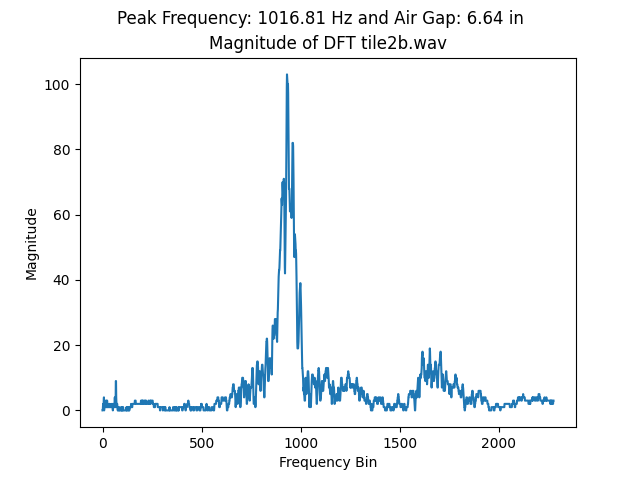
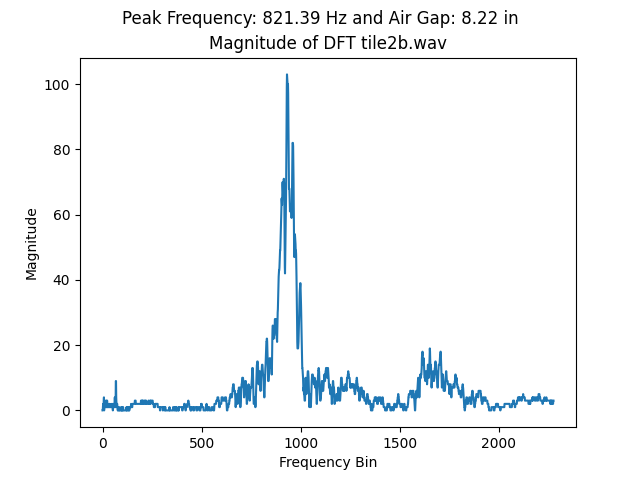
LAB 7 Finally Done

Changed region(s): [[0.1875, 0.0, 0.8125, 0.0625]]

diff --git a/Lab 7 - Acoustic Analysis/source/cpe367_AcousticAnalysisPart3.py b/Lab 7 - Acoustic Analysis/source/cpe367_AcousticAnalysisPart3.py
@@ -10,30 +10,13 @@ from cpe367_wav import cpe367_wav
 from my_fifo import my_fifo
 from tqdm import tqdm
 
-def process_wav(fpath_wav_in, fpath_wav_out):
+def process_wav(fpath_wav_in):
     wav_in = cpe367_wav('wav_in', fpath_wav_in)
-    wav_out = cpe367_wav('wav_out', fpath_wav_out)
 
     ostat = wav_in.open_wav_in()
     if ostat == False:
         print('Can\'t open wav file for reading')
         return False
-
-    num_channels = 2
-    sample_width_8_16_bits = 16
-    sample_rate_hz = 16000
-    wav_out.set_wav_out_configuration(num_channels, sample_width_8_16_bits, sample_rate_hz)
-
-    ostat = wav_out.open_wav_out()
-    if ostat == False:
-        print('Can\'t open wav file for writing')
-        return False
-
-    M = 1000
-    fifox = my_fifo(M)
-
-    bk_list = [1]
-
 
     xin = 0
     n = 0
@@ -63,61 +46,56 @@ def process_wav(fpath_wav_in, fpath_wav_out):
         dftList.append(np.sqrt(imag**2 + real**2) / (len(sampleValues))//2)
         # print(f"Sample {sample}: {dftList[sample]} and {sampleValues[sample]}")
         n+=1
-        
-    # Output DFT to the WAV file
-    for sample in dftList:
-        yout_left = int(round(sample))
-        yout_right = int(round(sample))
-
-        # output current sample
-        ostat = wav_out.write_wav_stereo(yout_left, yout_right)
-        if ostat == False:
-            break
     
     # Calculate frequency bins for the DFT
     N = len(sampleValues)
-    sample_rate = 8000  # or 16000 based on your configuration
+    sample_rate = 8000
     frequencies = np.arange(N) * sample_rate / N
+    
+    # Create a numpy array of the DFT (helps with calculations)
     dfts = np.array(dftList)
+    
+    # Get the Raw Max frequency
     max_frequency = np.argmax(dfts)
+    maxMagnitude = dftList[max_frequency]
+    
+    # Debugging print statements
     print(f"The max frequency is: {frequencies[max_frequency]} Hz")
-    print(f"The max magnitude is: {dftList[max_frequency]}")
+    print(f"The max magnitude is: {maxMagnitude}")
+
+    # Print length of frequency array and dfT array
+    print(f"Length of frequency array: {len(frequencies[max_frequency//2:N//4])}")
+    print(f"Length of DFT array: {len(dftList[max_frequency//2:int(max_frequency * 3)])}")
+
+    minimumIndex = max_frequency // 2
+    maximumIndex = int(max_frequency * 3)
 
 
-    # Compute the magnitudes of the DFT (you only need half of them due to symmetry)
-    magnitudes = np.abs(dftList[max_frequency//2:N//4])
+    # Compute the magnitudes of the DFT (only need half of them due to symmetry)
+    magnitudes = np.abs(dftList[minimumIndex : maximumIndex])
 
     # Compute the weighted frequencies (only for the first half due to symmetry)
-    weighted_frequencies = frequencies[max_frequency//2:N//4] * magnitudes
+    weighted_frequencies = frequencies[minimumIndex : maximumIndex] * magnitudes
 
+    workingMagnitudes = []
+    workingFrequencies = []
+
+    for i in range(len(weighted_frequencies)):
+        if (magnitudes[i] >= maxMagnitude/2):
+            workingMagnitudes.append(magnitudes[i])
+            workingFrequencies.append(weighted_frequencies[i])
+            
     # Calculate the sum of weighted frequencies and the sum of magnitudes
-    sum_weighted_frequencies = np.sum(weighted_frequencies)
-    sum_magnitudes = np.sum(magnitudes)
+    sum_weighted_frequencies = np.sum(workingFrequencies)
+    sum_magnitudes = np.sum(workingMagnitudes)
 
-    # Calculate the weighted average, which is the peak frequency
+    # Calculate the weighted average
     peak_frequency = sum_weighted_frequencies / sum_magnitudes
 
     # Print the peak frequency
     print(f"The peak frequency is: {peak_frequency} Hz")
 
-#    # Compute the magnitudes of the DFT
-#     magnitudes = np.abs(dftList[:(len(sampleValues)//4)])
-
     xList = np.arange(len(sampleValues)//4)
-
-#     # Compute the weighted frequencies
-#     weighted_frequencies = xList * magnitudes
-
-#     # Calculate the sum of weighted frequencies and the sum of magnitudes
-#     sum_weighted_frequencies = np.sum(weighted_frequencies)
-#     sum_magnitudes = np.sum(magnitudes)
-
-#     # Calculate the weighted average, which is the peak frequency
-#     peak_frequency = sum_weighted_frequencies / sum_magnitudes
-
-#     # Print the peak frequency
-#     print(f"The peak frequency is: {peak_frequency} Hz")
-    
 
     # Calculate the air gap
     air_gap = 343 / (2 * peak_frequency)
@@ -137,9 +115,10 @@ def process_wav(fpath_wav_in, fpath_wav_out):
     plt.title(f'Magnitude of DFT {fpath_wav_in.split("/")[-1]}')
     # plt.show()
     plt.savefig(f'Lab 7 - Acoustic Analysis/source/wav/output/{fpath_wav_in.split("/")[-1].split(".")[0]}_DFT.png')
+    # plt.savefig(f'wav/output/{fpath_wav_in.split("/")[-1].split(".")[0]}_DFT.png')
 
     wav_in.close_wav()
-    wav_out.close_wav()
+    # wav_out.close_wav()
 
     return True
 
@@ -152,23 +131,36 @@ def main():
         return False
 
     files = [
-            #  'Lab 7 - Acoustic Analysis/source/wav/tile1a.wav',
-            #  'Lab 7 - Acoustic Analysis/source/wav/tile1b.wav',
-            #  'Lab 7 - Acoustic Analysis/source/wav/tile1c.wav',
-            #  'Lab 7 - Acoustic Analysis/source/wav/tile1d.wav',
-            #  'Lab 7 - Acoustic Analysis/source/wav/tile1e.wav',
+             'Lab 7 - Acoustic Analysis/source/wav/tile1a.wav',
+             'Lab 7 - Acoustic Analysis/source/wav/tile1b.wav',
+             'Lab 7 - Acoustic Analysis/source/wav/tile1c.wav',
+             'Lab 7 - Acoustic Analysis/source/wav/tile1d.wav',
+             'Lab 7 - Acoustic Analysis/source/wav/tile1e.wav',
              'Lab 7 - Acoustic Analysis/source/wav/tile2a.wav',
              'Lab 7 - Acoustic Analysis/source/wav/tile2b.wav',
              'Lab 7 - Acoustic Analysis/source/wav/tile2c.wav',
              'Lab 7 - Acoustic Analysis/source/wav/tile2d.wav',
-             'Lab 7 - Acoustic Analysis/source/wav/tile2e.wav']
+             'Lab 7 - Acoustic Analysis/source/wav/tile2e.wav'
+             ]
+             
+    clifiles = [
+             'wav/tile1a.wav',
+             'wav/tile1b.wav',
+             'wav/tile1c.wav',
+             'wav/tile1d.wav',
+             'wav/tile1e.wav',
+             'wav/tile2a.wav',
+             'wav/tile2b.wav',
+             'wav/tile2c.wav',
+             'wav/tile2d.wav',
+             'wav/tile2e.wav']
              
     # fpath_wav_in = 'Lab 7 - Acoustic Analysis/source/wav/tile1a.wav'
     # fpath_wav_in = 'Lab 7 - Acoustic Analysis/source/wav/cos_1khz_pulse_20msec.wav'
     # fpath_wav_in = 'Lab 7 - Acoustic Analysis/source/wav/output/Part2Sample.wav' 
-    fpath_wav_out = 'Lab 7 - Acoustic Analysis/source/wav/output/dft.wav'
+
     for f in files:
-        process_wav(f, fpath_wav_out)
+        process_wav(f)
     
     return True
 
